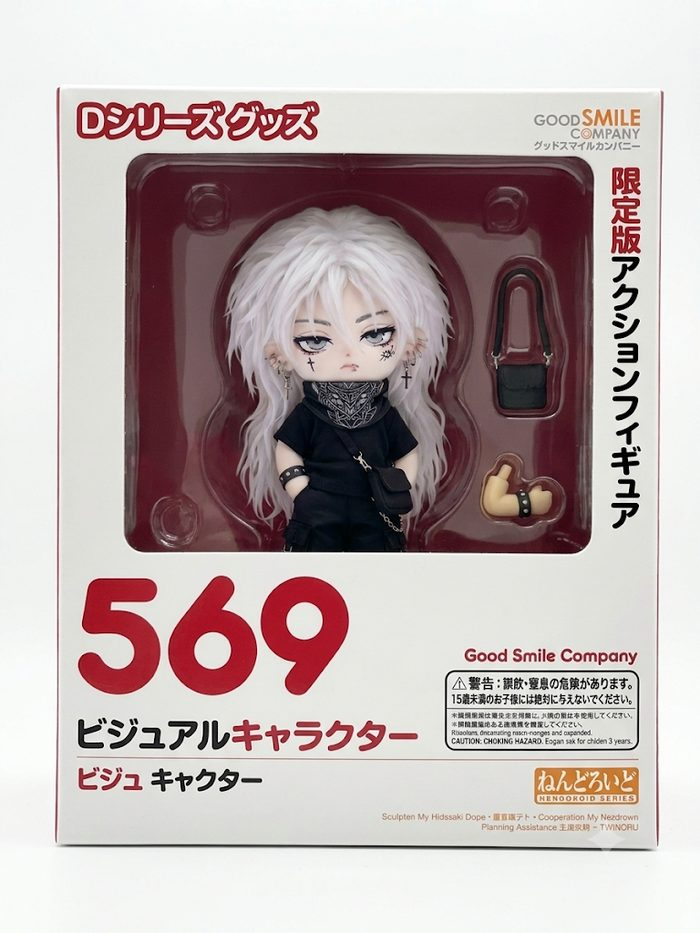
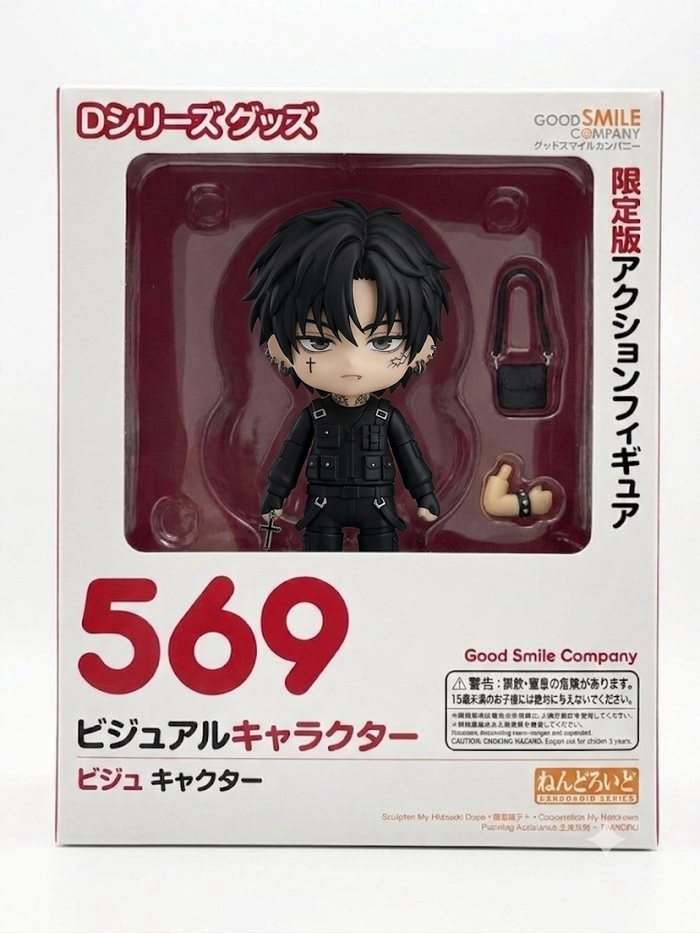
feat(demo): 경매 시연 상품 사진을 검은 머리 피규어 풀박스와 스탠딩 인형으로 변경 - 2026-11-13
- 진행중 경매 2개의 사진을 새 사진으로 교체(피규어 풀박스는 auction-figure-box.jpg 교체, 인형은 demo/seed_photo_1.jpg)
- 인형 사진과 겹치던 '입찰 전' 경매는 다른 시연 사진으로 변경

Author: leeyonghee030

diff --git a/src/main/java/com/goodsbridge/demo/DemoDataService.java b/src/main/java/com/goodsbridge/demo/DemoDataService.java
@@ -399,7 +399,7 @@ public class DemoDataService {
 
         // 1) 진행중 · 데모교환A 가 최고가 (D-2)
         Auction live1 = saveAuction(shopOwner, shop, c0, "(테스트) D-Series 한정판 피규어 풀박스", "한정판 넨도로이드 스타일 피규어 풀박스 세트입니다. 박스 상태 최상, 미개봉.",
-            50000, 7500, now.plusDays(2).plusHours(3), "/img/auction-figure-box.jpg");
+            50000, 7500, now.plusDays(2).plusHours(3), "/img/auction-figure-box.jpg");   // 검은 머리 넨도로이드형 피규어 풀박스 사진
         Payment depB1 = bid(live1, userB, 52000, null);
         Payment depA1 = bid(live1, userA, 58000, null);
         bid(live1, userB, 61000, depB1);
@@ -407,7 +407,7 @@ public class DemoDataService {
 
         // 2) 진행중 · 데모신청B 가 최고가 (오늘 마감)
         Auction live2 = saveAuction(shopOwner, shop, c1, "(테스트) D-Series 스탠딩 인형 한정판", "스탠드 포함 한정판 스탠딩 인형입니다. 의상과 소품 모두 포함.",
-            30000, 4500, now.plusHours(4), "/img/auction-plush.jpg");
+            30000, 4500, now.plusHours(4), "/img/demo/seed_photo_1.jpg");   // 검은 머리 스탠딩 인형 사진
         Payment depA2 = bid(live2, userA, 33000, null);
         Payment depB2 = bid(live2, userB, 36000, null);
         bid(live2, userA, 38000, depA2);
@@ -415,7 +415,7 @@ public class DemoDataService {
 
         // 3) 진행중 · 입찰 없음 (가게가 취소할 수 있음)
         saveAuction(shopOwner, shop, c2, "(테스트) 사인 포토카드 세트 (입찰 전)", "시연용 경매입니다. 아직 입찰이 없어서 가게가 취소할 수 있어요.",
-            20000, 3000, now.plusDays(5), images.get(0));
+            20000, 3000, now.plusDays(5), images.get(5 % images.size()));
 
         // 4) 종료 · 낙찰 → 데모신청B 가 잔금을 결제해야 함 (결제 기한은 하루 뒤)
         Auction won = saveAuction(shopOwner, shop, c0, "(테스트) 한정판 아크릴 스탠드 세트", "낙찰 후 잔금 결제를 기다리는 시연용 경매입니다.",
